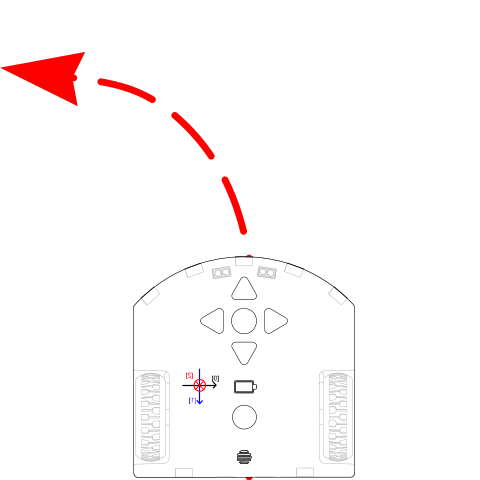
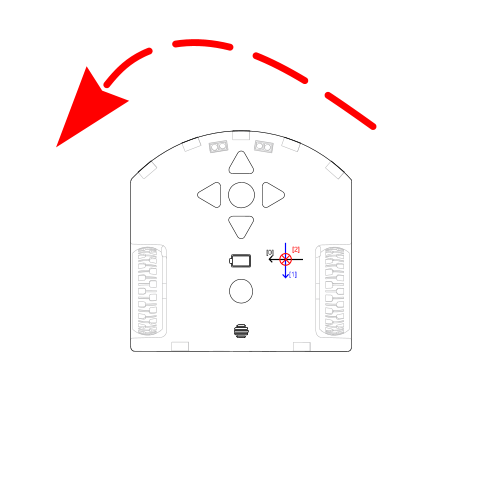
Updated gifs + visual bug arrows
Changed animation gifs to turn left or right bcs they were wrong

Fixed a bug where recomputing arrow pos wasn't occuring in currentmodeltest

diff --git a/src/views/App/App.tsx b/src/views/App/App.tsx
@@ -11,6 +11,7 @@
  * https://moodle.epfl.ch/pluginfile.php/2706097/mod_resource/content/1/ThymioCheatSheet.pdf
  * Setting Icon from (Mary Akveo): https://www.svgrepo.com/svg/469755/settings 
  * Loading animations from ldrs: https://uiball.com/ldrs/
+ * Flag Icons : Provided by "flag-icon-css" :(https://github.com/lipis/flag-icon-css).
  */
 
 
@@ -399,7 +400,7 @@ const App = observer(() => {
         });
       }, 100); // Delay : 100 ms
     }
-  }, [musicalStaffRef.current, mode]);
+  }, [musicalStaffRef.current, mode, thymioSVGLoaded]);
 
   // Handles resizing
   useEffect(() => {
